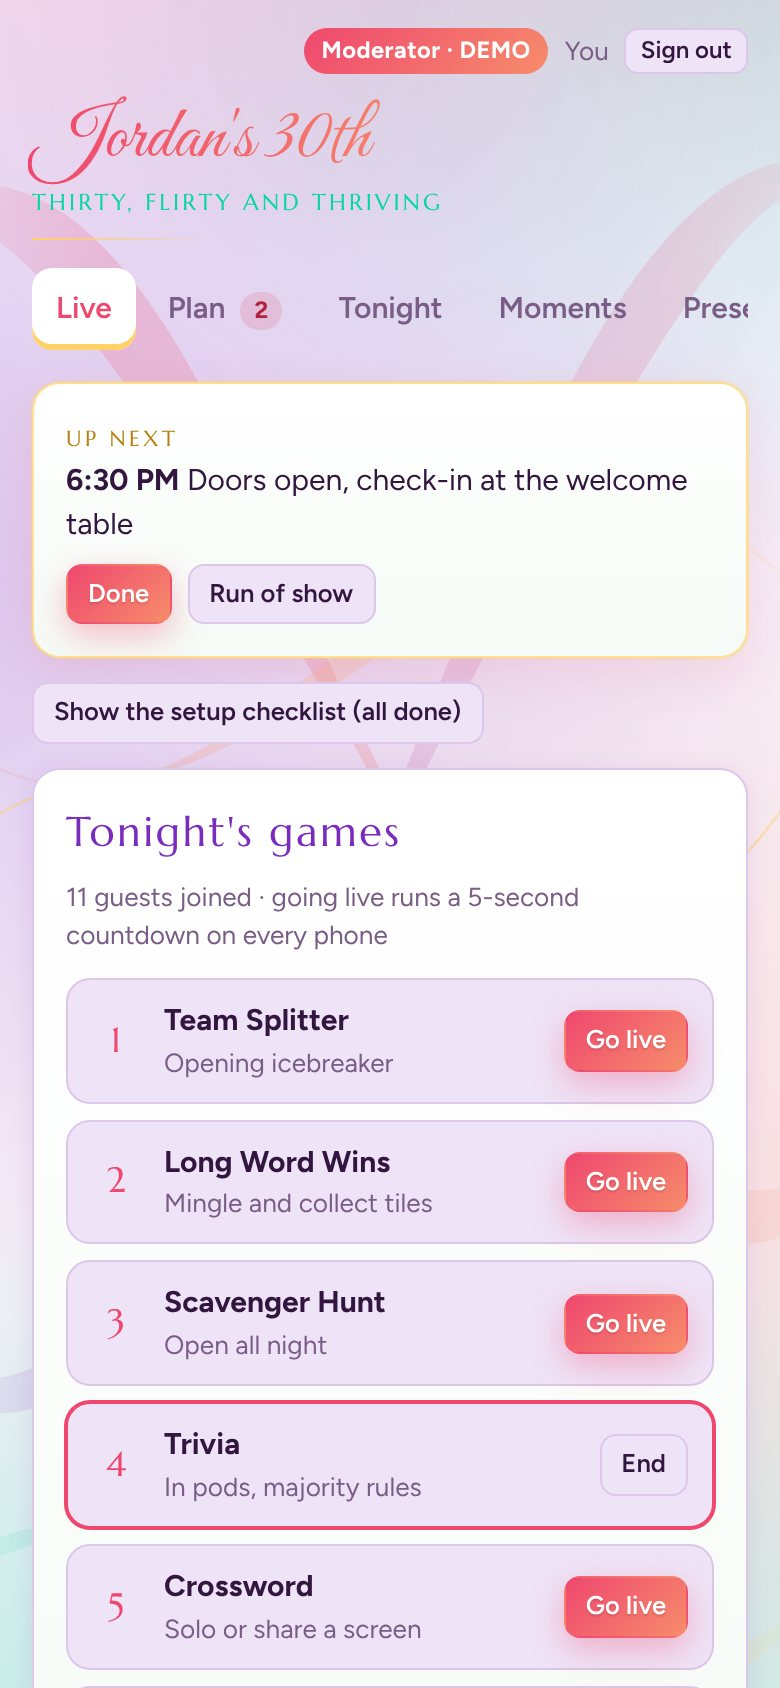
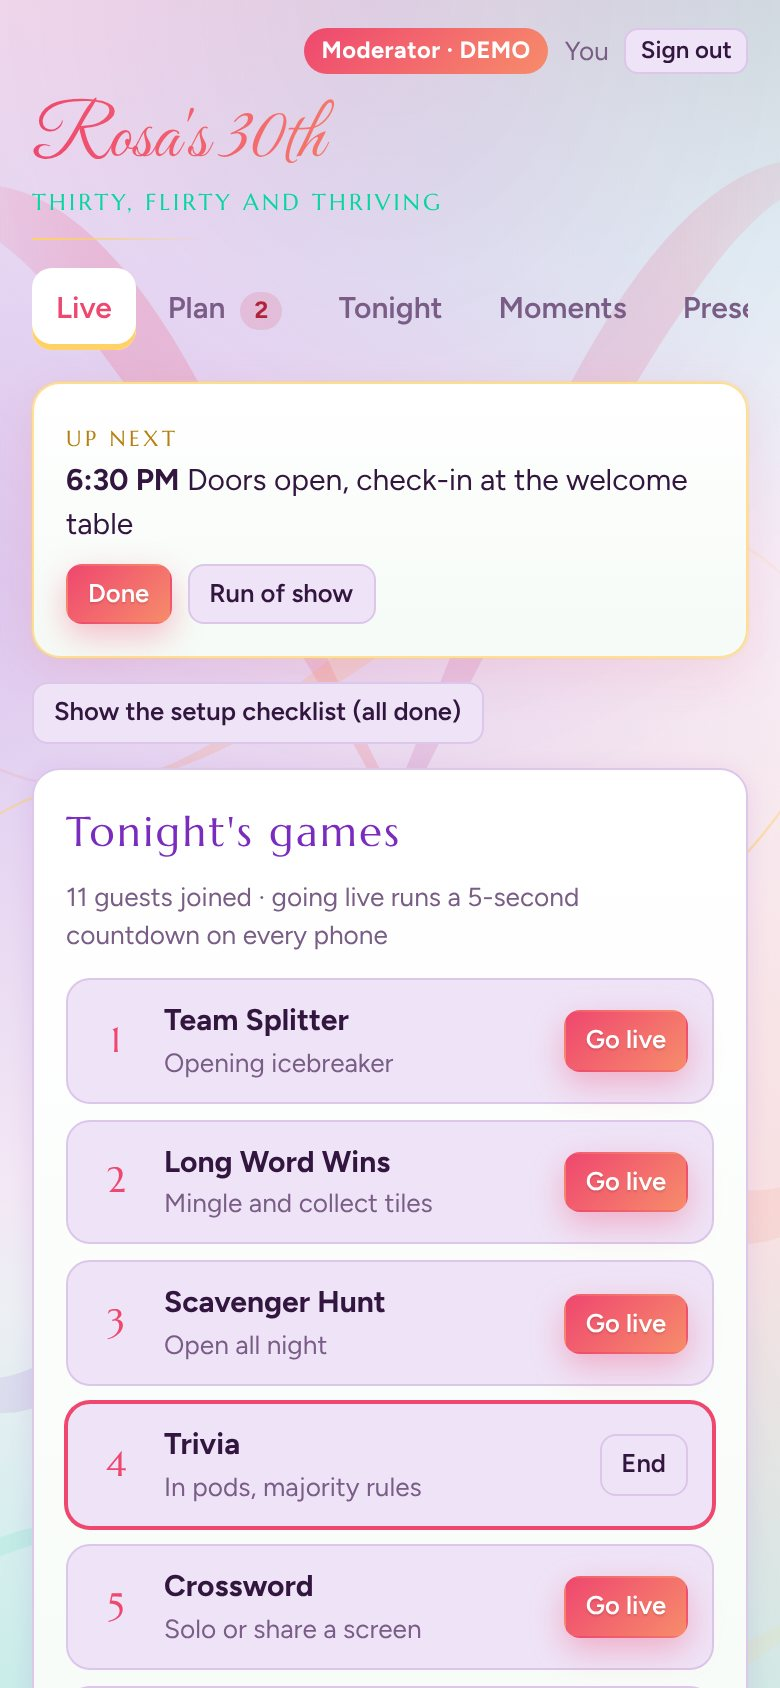
Rename the demo party to Rosa's 30th
Claude-Session: https://claude.ai/code/session_011CV874ySTgR4TAbGM4e4Y6

Changed region(s): [[0.0308, 0.0616, 0.4923, 0.1232]]

diff --git a/games.html b/games.html
@@ -4315,17 +4315,17 @@ newEventView=function(){const h=_newEvBrand();if(!L.loaded||L.newInv)return h;
 /* ================= DEMO EVENT (?e=DEMO) =================
    demo.js swaps in a pretend database kept in this browser only. The first visit fills it with a
    ready-made birthday party so visitors can see every screen; "Start the demo over" resets it. */
-const DEMO_V=3;
+const DEMO_V=4;
 const demoOn=()=>!!window.__HMDEMO&&EV==="DEMO";
 function demoSeed(){const dbr=firebase.database();const cur=JSON.parse(localStorage.getItem("hm_demo_db")||"{}");
  if(cur.demoV===DEMO_V&&cur.partygames)return;
  const iso=n=>{const d=new Date();d.setHours(0,0,0,0);d.setDate(d.getDate()+n);return plIso(d)};
  const date=iso(14);
- const content=Object.assign(templateFor("birthday","Jordan's 30th"),{title:"Jordan's 30th",honorees:"Jordan",date,tagline:"Thirty, flirty and thriving"});
+ const content=Object.assign(templateFor("birthday","Rosa's 30th"),{title:"Rosa's 30th",honorees:"Rosa",date,tagline:"Thirty, flirty and thriving"});
  content.ros={};[["18:30","Doors open, check-in at the welcome table",""],["19:00","Welcome and the first game",""],["19:45","Dinner is served",""],["20:30","Toasts and the birthday slideshow",""],["21:00","Cake and candles",""],["21:30","Team trivia finale and crowning the winners",""]].forEach((r,i)=>content.ros["r"+i]={time:r[0],title:r[1],note:r[2],who:"",t:1+i});
  const names=[["Alicia R","🦋",3,4],["Marcus T","🌻",7,19],["Tasha W","🌸",1,22],["Devon K","⭐",9,2],["Priya S","🍓",4,30],["Andre M","🎈",11,11],["Keisha L","🌙",2,14],["Omar J","🐝",8,8],["Lauren B","🦄",5,5],["Chris P","🧸",10,27]];
  const players={},scores={},pods={};names.forEach(([n,e,m,d],i)=>{const id="p"+i;players[id]={name:n,m,d,fq:i%6,fa:i%3,word:n[0],t:1000+i,av:{e},bot:true};scores[id]=[18,15,14,12,11,10,9,8,7,6][i]});
- const guests={};names.concat([["Maya B"],["Jordan's mom"],["Uncle Ray"]]).forEach((x,i)=>guests["g"+i]={name:x[0],rsvp:"yes",t:i,...(i<6?{arrived:{t:Date.now()-6e5,by:"Alicia"}}:{})});
+ const guests={};names.concat([["Maya B"],["Rosa's mom"],["Uncle Ray"]]).forEach((x,i)=>guests["g"+i]={name:x[0],rsvp:"yes",t:i,...(i<6?{arrived:{t:Date.now()-6e5,by:"Alicia"}}:{})});
  guests.gw1={name:"Kendra F",rsvp:"maybe",t:40};guests.gw2={name:"Luis O",rsvp:"maybe",t:41};
  const now=Date.now(),album={},albumFull={};(window.HM_DEMO_PHOTOS||[]).forEach((p,i)=>{album["a"+i]={thumb:p.thumb,t:now-i*6e4,name:names[[6,1,4][i]][0]};albumFull["a"+i]=p.full});
  const plan={budgetTotal:2500,capacity:60,
@@ -4336,11 +4336,11 @@ function demoSeed(){const dbr=firebase.database();const cur=JSON.parse(localStor
   dishes:{f1:{dish:"Sliders",course:"Mains",from:"Caterer",serves:40,t:1},f2:{dish:"Mac and cheese",course:"Sides",from:"Tasha",serves:30,contains:"dairy, gluten",t:2},f3:{dish:"Birthday cake",course:"Desserts",from:"Sugar & Spoon Bakery",serves:50,contains:"dairy, eggs, gluten",t:3}},
   diet:{d1:{name:"Priya S",need:"Vegetarian",t:1}},
   colors:["#7b3fb8","#e8338f","#f6892f","#ffd166"],
-  notes:"Surprise toast from Jordan's college friends at 8:30. Venue says no open flames except the cake candles."};
- const ev={meta:{name:"Jordan's 30th",created:now,demo:true,setup:{details:true,content:true,moments:true,menu:true,pin:true,practice:true,share:true}},
+  notes:"Surprise toast from Rosa's college friends at 8:30. Venue says no open flames except the cake candles."};
+ const ev={meta:{name:"Rosa's 30th",created:now,demo:true,setup:{details:true,content:true,moments:true,menu:true,pin:true,practice:true,share:true}},
   mods:{m1:{name:"You",pinHash:"demo",owner:true},m2:{name:"Alicia",pinHash:"demo-helper"}},
   content,players,scores,team:{A:64,B:51},state:{teamNames:{A:"Team Cake",B:"Team Candles"}},guests,album,albumFull,plan};
- const all={demoV:DEMO_V,partygames:{admin:{defaultEvent:"DEMO"},index:{DEMO:{name:"Jordan's 30th",created:now}},events:{DEMO:ev}}};
+ const all={demoV:DEMO_V,partygames:{admin:{defaultEvent:"DEMO"},index:{DEMO:{name:"Rosa's 30th",created:now}},events:{DEMO:ev}}};
  localStorage.setItem("hm_demo_db",JSON.stringify(all));dbr.ref("demoV").set(DEMO_V);
  Object.keys(localStorage).filter(k=>/^pg_.*DEMO/.test(k)).forEach(k=>localStorage.removeItem(k));
  store.set("mod_DEMO",{h:"demo",id:"m1",r:"mod"})}

diff --git a/demo.html b/demo.html
@@ -59,7 +59,7 @@ h1 span{background:linear-gradient(90deg,var(--amber),var(--gold));-webkit-backg
 </style></head><body>
 <header class="top"><a class="logo" href="./"><i aria-hidden="true"></i>Host Mode</a>
 <nav><a class="btn" href="./">Home</a><a class="btn hot" href="games.html#new">Create your event</a></nav></header>
-<section class="intro"><div class="eyebrow">Live demo</div><h1>Jordan's 30th, <span>running live</span></h1>
+<section class="intro"><div class="eyebrow">Live demo</div><h1>Rosa's 30th, <span>running live</span></h1>
 <p>A pretend birthday party with ten guests already playing. Tap around on any screen and watch the others update. Everything stays on this device.</p></section>
 
 <section class="stage" aria-label="Demo screens">
